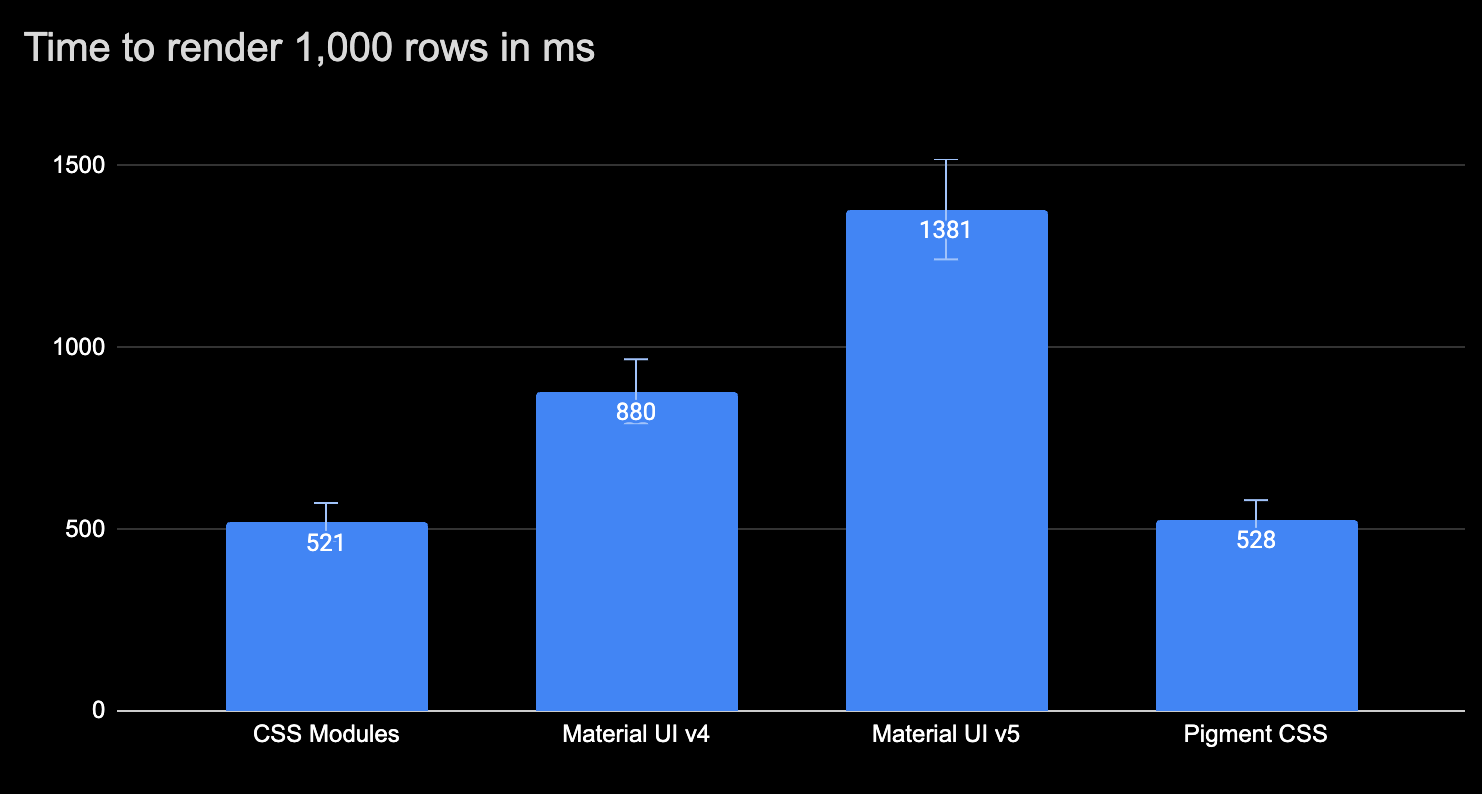
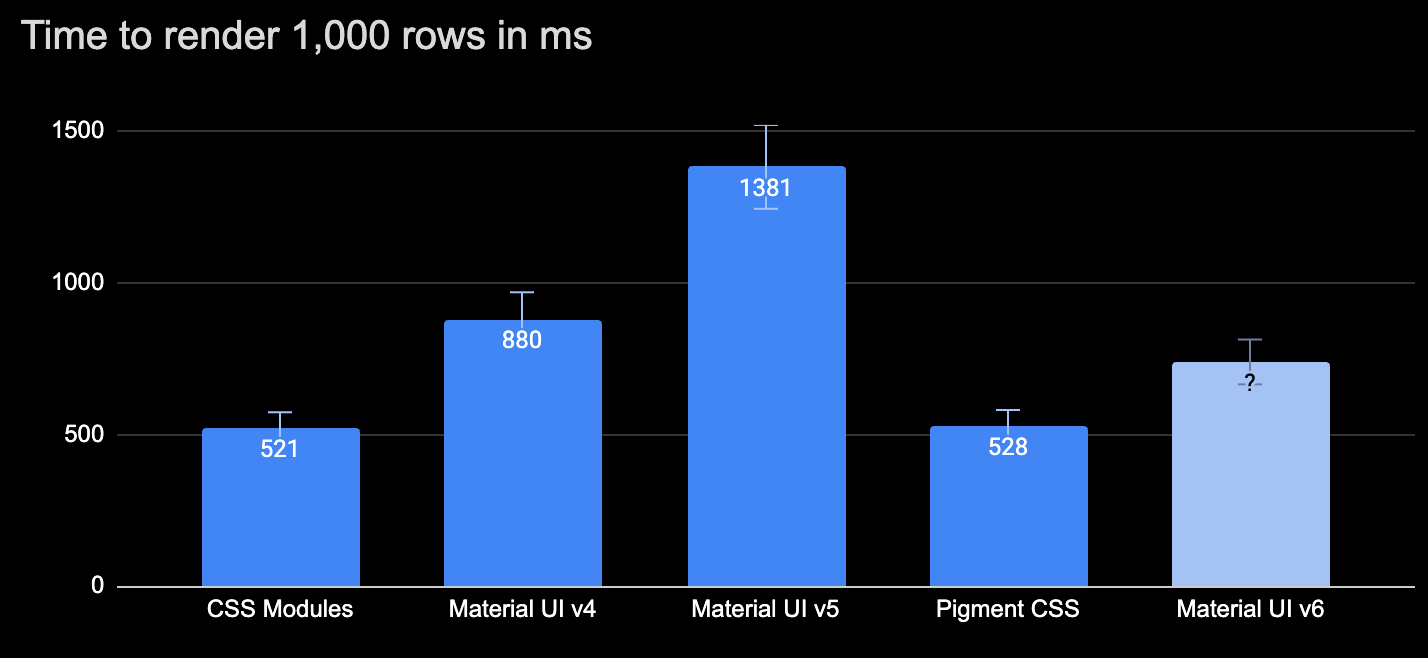
don

Changed region(s): [[0.0308, 0.2432, 0.986, 0.9422], [0.0308, 0.1824, 0.986, 0.2128], [0.0, 0.0304, 0.4314, 0.0912]]

diff --git a/src/App.tsx b/src/App.tsx
@@ -797,7 +797,24 @@ https://github.com/styled-components/styled-components/issues/4025
       <Slide>
         <SlideContainer leftAligned noBgColor>
           <TitleAndSubtitle title="Performance" subtitle="Pigment CSS" />
-          <ImageContainer width="50%">
+          <ImageContainer width="55%">
+            <Image
+              src="/images/benchmark-before.png"
+              width="100%"
+              className={css({ margin: 'auto' })}
+            />
+          </ImageContainer>
+        </SlideContainer>
+        <Notes>
+          <ul>
+            <li>This is how it looks like now, with the same benchmark.</li>
+          </ul>
+        </Notes>
+      </Slide>
+      <Slide>
+        <SlideContainer leftAligned noBgColor>
+          <TitleAndSubtitle title="Performance" subtitle="Pigment CSS" />
+          <ImageContainer width="80%">
             <Image
               src="/images/benchmark-after.png"
               width="100%"

diff --git a/src/slides/Slide9.tsx b/src/slides/Slide9.tsx
@@ -11,7 +11,7 @@ export default function Slide9() {
         className={css({
           margin: 'auto',
           marginTop: '1rem',
-          width: '65%',
+          width: '60%',
           padding: '1rem',
           display: 'flex',
           justifyContent: 'center',
